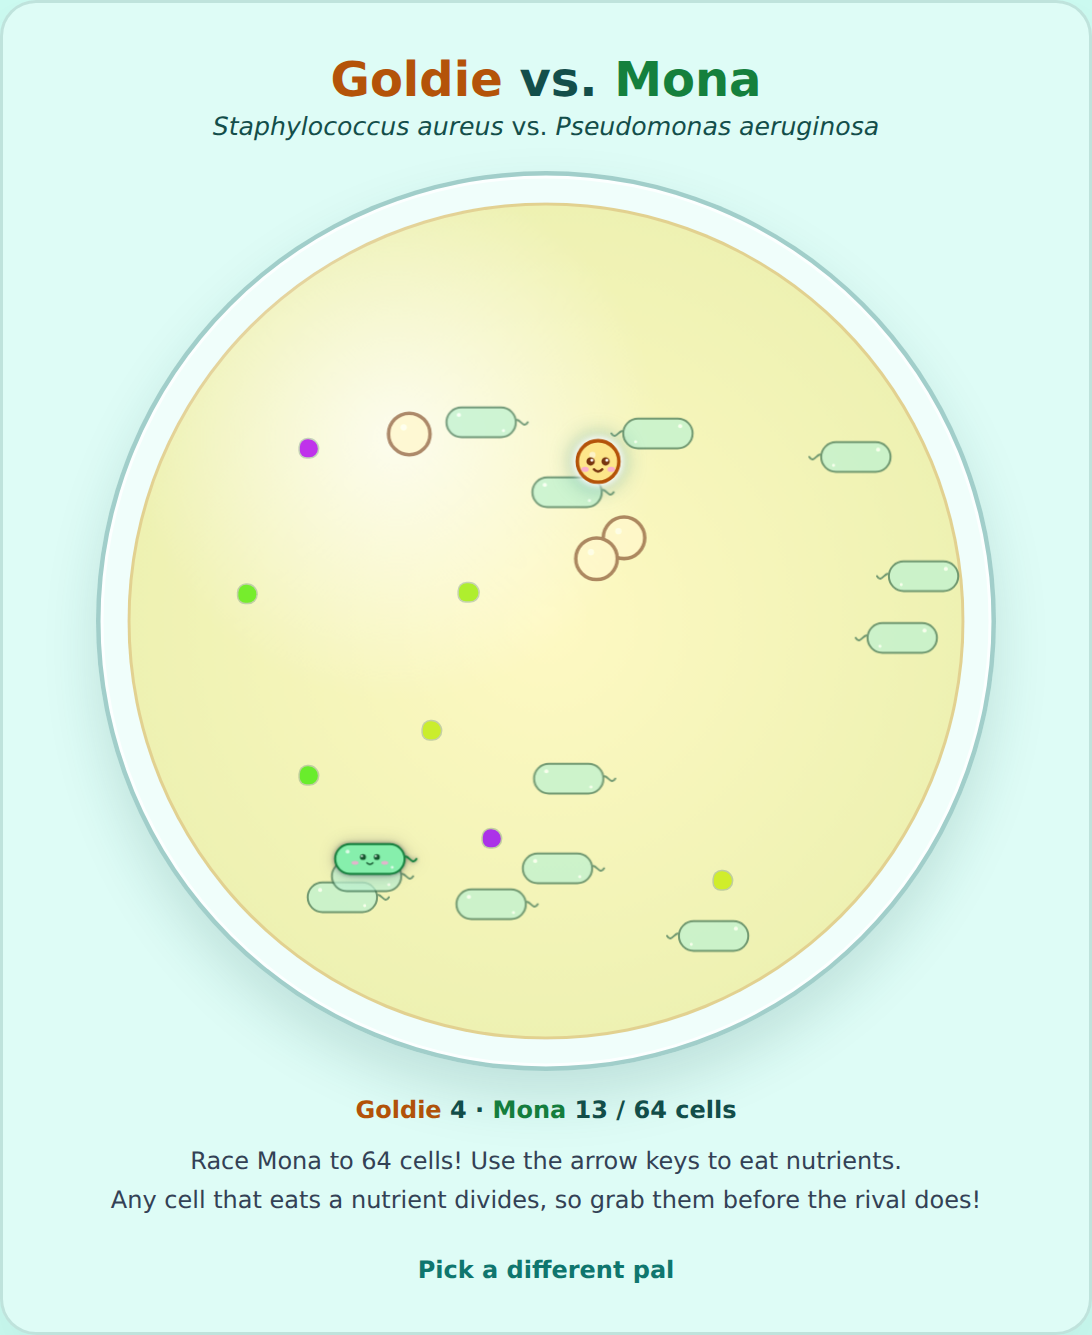
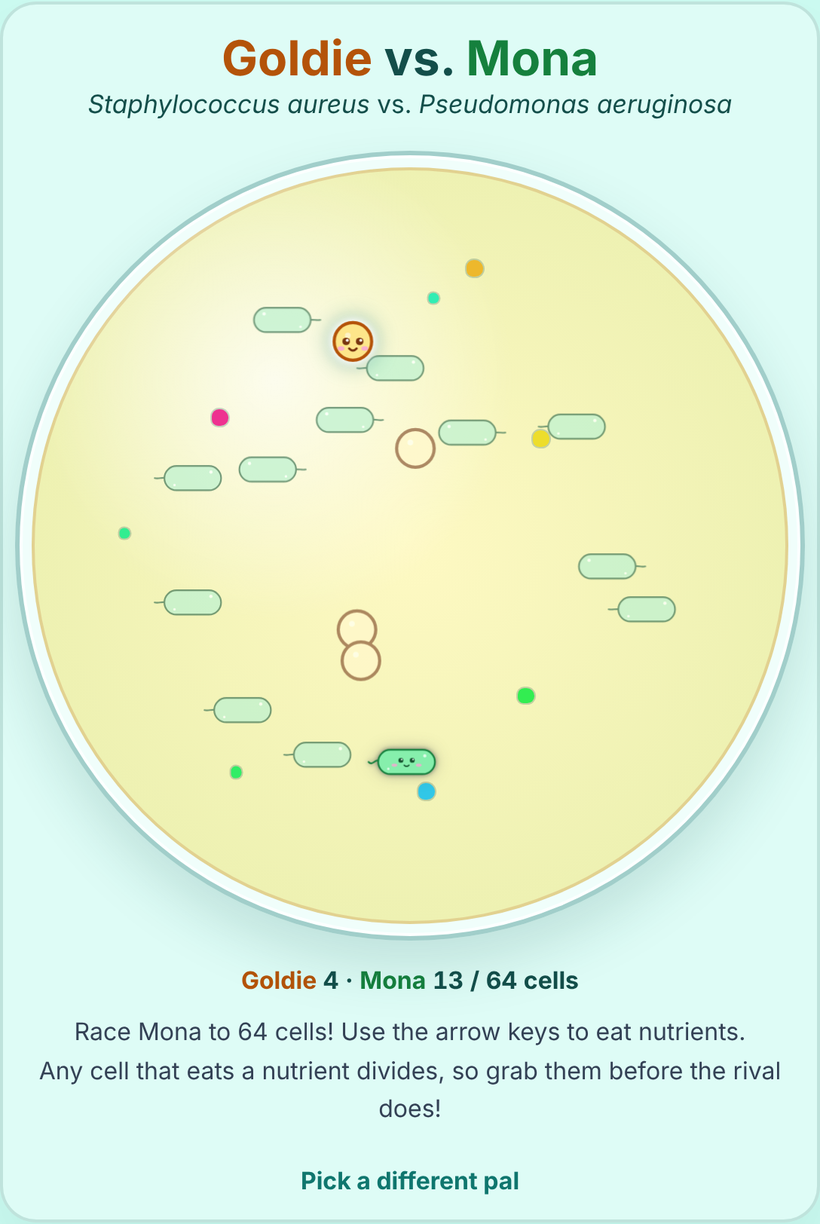
Tidy up after Sallie: drop plainFact, refresh the README
plainFact was just another name for plainText from italics.js, so the
tests use that directly. The README and CONTRIBUTING mention the coverage
check, the project layout lists facts.js, italics.js, stain.js and
spores.js, and the screenshots are retaken from the game as it is now
(spreading zones, current fonts and instructions).

diff --git a/test/facts.test.js b/test/facts.test.js
@@ -1,7 +1,8 @@
 // @vitest-environment jsdom
 import { beforeEach, describe, expect, it, vi } from 'vitest';
 import { SPECIES } from '../public/game/config.js';
-import { hideFact, pickFact, plainFact, showFact, writeFact } from '../public/game/facts.js';
+import { hideFact, pickFact, showFact, writeFact } from '../public/game/facts.js';
+import { plainText } from '../public/game/italics.js';
 
 describe('every pal\'s facts', () => {
   it.each(Object.keys(SPECIES))('%s has at least 10 short, different facts', (pal) => {
@@ -13,7 +14,7 @@ describe('every pal\'s facts', () => {
       // Italics markers come in pairs, around at least one word.
       expect(raw.split('*').length % 2, raw).toBe(1);
       expect(raw, raw).not.toMatch(/\*\s*\*/);
-      const fact = plainFact(raw); // as it reads on screen
+      const fact = plainText(raw); // as it reads on screen
       expect(fact.length, fact).toBeLessThanOrEqual(90); // fits the pop-up
       // Says whose fact it is, so it's clear in a race against another pal.
       expect(fact, fact).toContain(name);

diff --git a/public/game/facts.js b/public/game/facts.js
@@ -4,10 +4,7 @@
 // A fact can put words in italics between asterisks, for scientific names
 // of other bacteria: "Ceres's cousin *Bacillus thuringiensis* is ...".
 
-import { plainText, withItalics } from './italics.js';
-
-// `fact` without its italics markers: the words as they read on screen.
-export const plainFact = plainText;
+import { withItalics } from './italics.js';
 
 // Write `fact` into `element`, with the parts between asterisks in <i>.
 export function writeFact(element, fact) {

diff --git a/README.md b/README.md
@@ -4,7 +4,7 @@ A cute microbiology game for the browser. Pick a bacterial pal and eat nutrients
 
 **[▶ Play PetriPals](https://jessicasogge.github.io/petripals/)**: works on computers, phones and tablets.
 
-<img src="docs/screenshot.png" alt="Classic mode: Scarlett, a red Streptococcus pyogenes, swimming in a petri dish between antibiotic disks labeled P, CC and E, each with a clear zone around it" width="400"> <img src="docs/mixed-culture.png" alt="Mixed culture mode: Goldie vs. Mona, with Goldie's round cells and Mona's green rods spread across the plate, and a counter reading Goldie 4, Mona 13 out of 64 cells" width="400">
+<img src="docs/screenshot.png" alt="Classic mode: Scarlett, a red Streptococcus pyogenes, swimming in a petri dish between antibiotic disks labeled E, CC and P, each with a clear zone around it" width="400"> <img src="docs/mixed-culture.png" alt="Mixed culture mode: Goldie vs. Mona, with Goldie's round cells and Mona's green rods spread across the plate, and a counter reading Goldie 4, Mona 13 out of 64 cells" width="400">
 
 ## How to play
 
@@ -68,10 +68,11 @@ Then open http://localhost:3000.
 ## Tests
 
 ```sh
-npm test
+npm test                # run the tests
+npm run test:coverage   # run them and check how much of the game they cover
 ```
 
-The tests use [Vitest](https://vitest.dev/). Most of the game logic runs in [jsdom](https://github.com/jsdom/jsdom), a simulated browser page.
+The tests use [Vitest](https://vitest.dev/). Most of the game logic runs in [jsdom](https://github.com/jsdom/jsdom), a simulated browser page. The coverage check fails if the tests leave game code untested (the thresholds are in [`vitest.config.js`](vitest.config.js)), and the deploy runs it, so untested code doesn't ship.
 
 ## Project layout
 
@@ -81,14 +82,14 @@ The tests use [Vitest](https://vitest.dev/). Most of the game logic runs in [jsd
 | `public/pal-picker.html` | Pick a pal |
 | `public/choose-mode.html` | Choose classic or mixed culture |
 | `public/petri-dish.html` | The game, in either mode |
-| `public/game/` | Game code: classic mode (`game.js`), mixed culture mode (`race.js`, with the rival in `rival.js`), what both share (a colony eating and dividing in `colony.js`, steering in `keyboard.js` and `touch.js`), how the pals grow (`rod.js`, `coccus.js`), antibiotics (`antibiotic.js`), nutrients, physics, settings (`config.js`), and a little surprise on the home page (`split.js`) |
+| `public/game/` | Game code: classic mode (`game.js`), mixed culture mode (`race.js`, with the rival in `rival.js`), what both share (a colony eating and dividing in `colony.js`, steering in `keyboard.js` and `touch.js`), how the pals grow (`rod.js`, `coccus.js`), antibiotics (`antibiotic.js`), nutrients, physics, settings and fun facts (`config.js`), the fun-fact pop-up (`facts.js`, with italics for scientific names from `italics.js`), the picker's microscope mode (`stain.js`), the win confetti (`spores.js`), and a little surprise on the home page (`split.js`) |
 | `public/game/pals.js` | Every pal's name and drawing, in one place. All the pages draw the pals from here, in the order listed (except the picker, which shuffles them each visit), eight to a page (`PAGE_SIZE`). To add a pal, see the notes at the top. |
 | `test/` | Tests |
 | `src/index.ts` | Small Express server for local development |
 
 ## Deployment
 
-Every push to `main` runs the tests and, if they pass, publishes `public/` to GitHub Pages (see [`.github/workflows/pages.yml`](.github/workflows/pages.yml)).
+Every push to `main` runs the tests and the coverage check and, if they pass, publishes `public/` to GitHub Pages (see [`.github/workflows/pages.yml`](.github/workflows/pages.yml)).
 
 ## Contributing
 

diff --git a/CONTRIBUTING.md b/CONTRIBUTING.md
@@ -24,10 +24,10 @@ Everyone taking part is expected to follow the [Code of Conduct](CODE_OF_CONDUCT
    Then open http://localhost:3000.
 
 3. Make your change. The game is plain HTML, CSS and JavaScript in `public/`, with no build step. See the [README](README.md#project-layout) for where things live.
-4. Add or update tests for what you changed, and make sure they all pass:
+4. Add or update tests for what you changed, and make sure they all pass and still cover the game:
 
    ```sh
-   npm test
+   npm run test:coverage
    ```
 
 5. Open a pull request saying what you changed and why. For anything you can see, such as how a pal looks or moves, include a screenshot.
